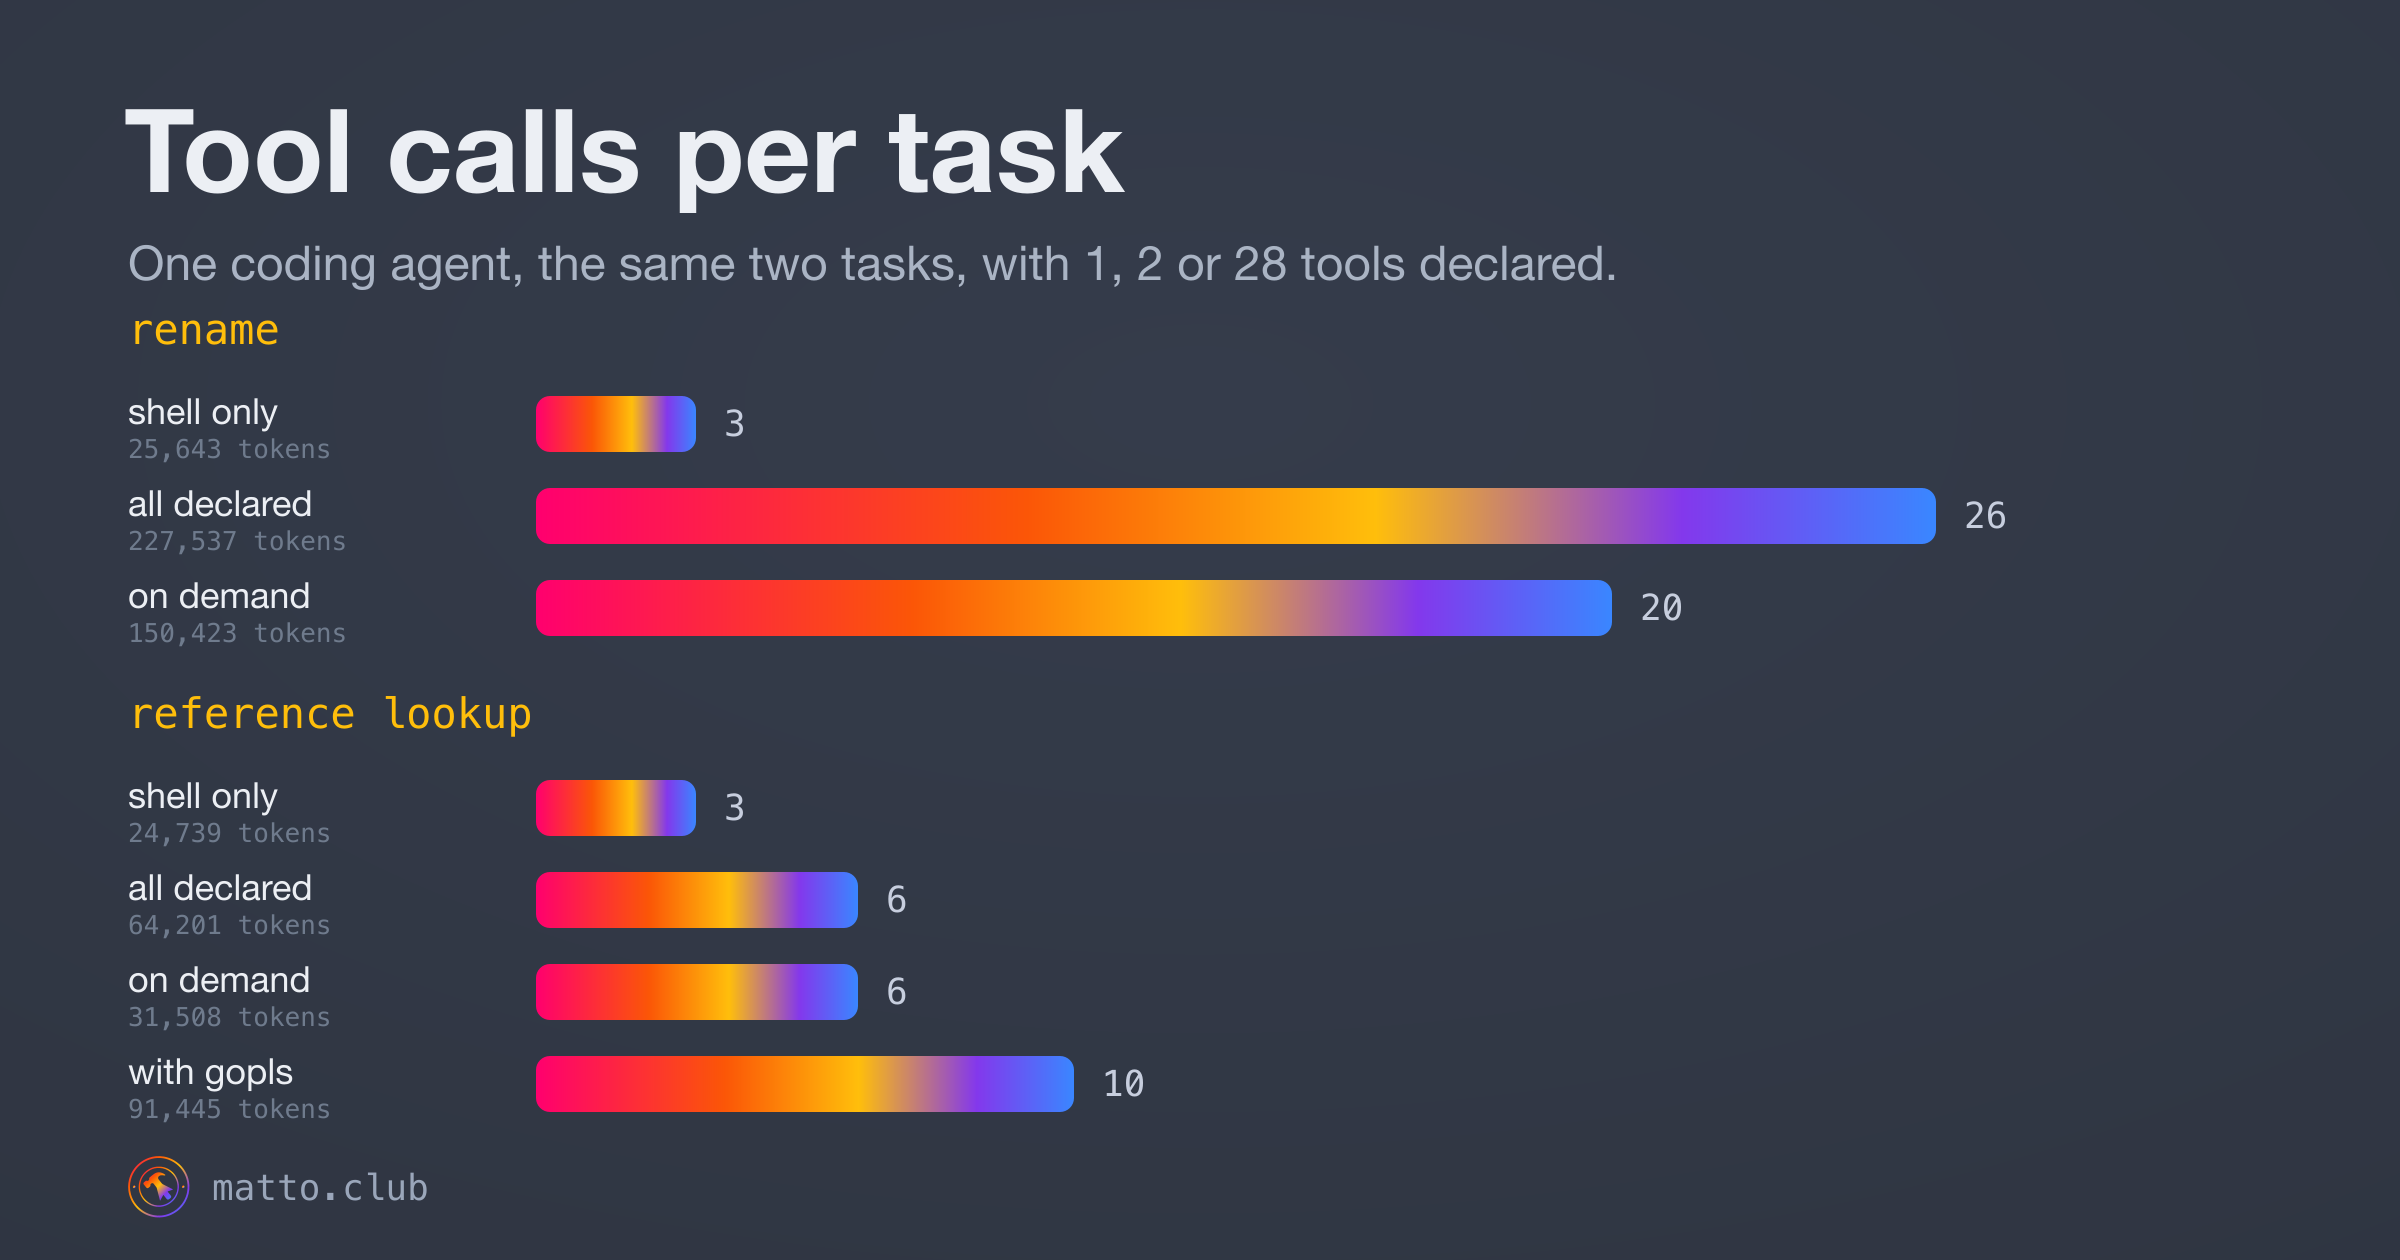
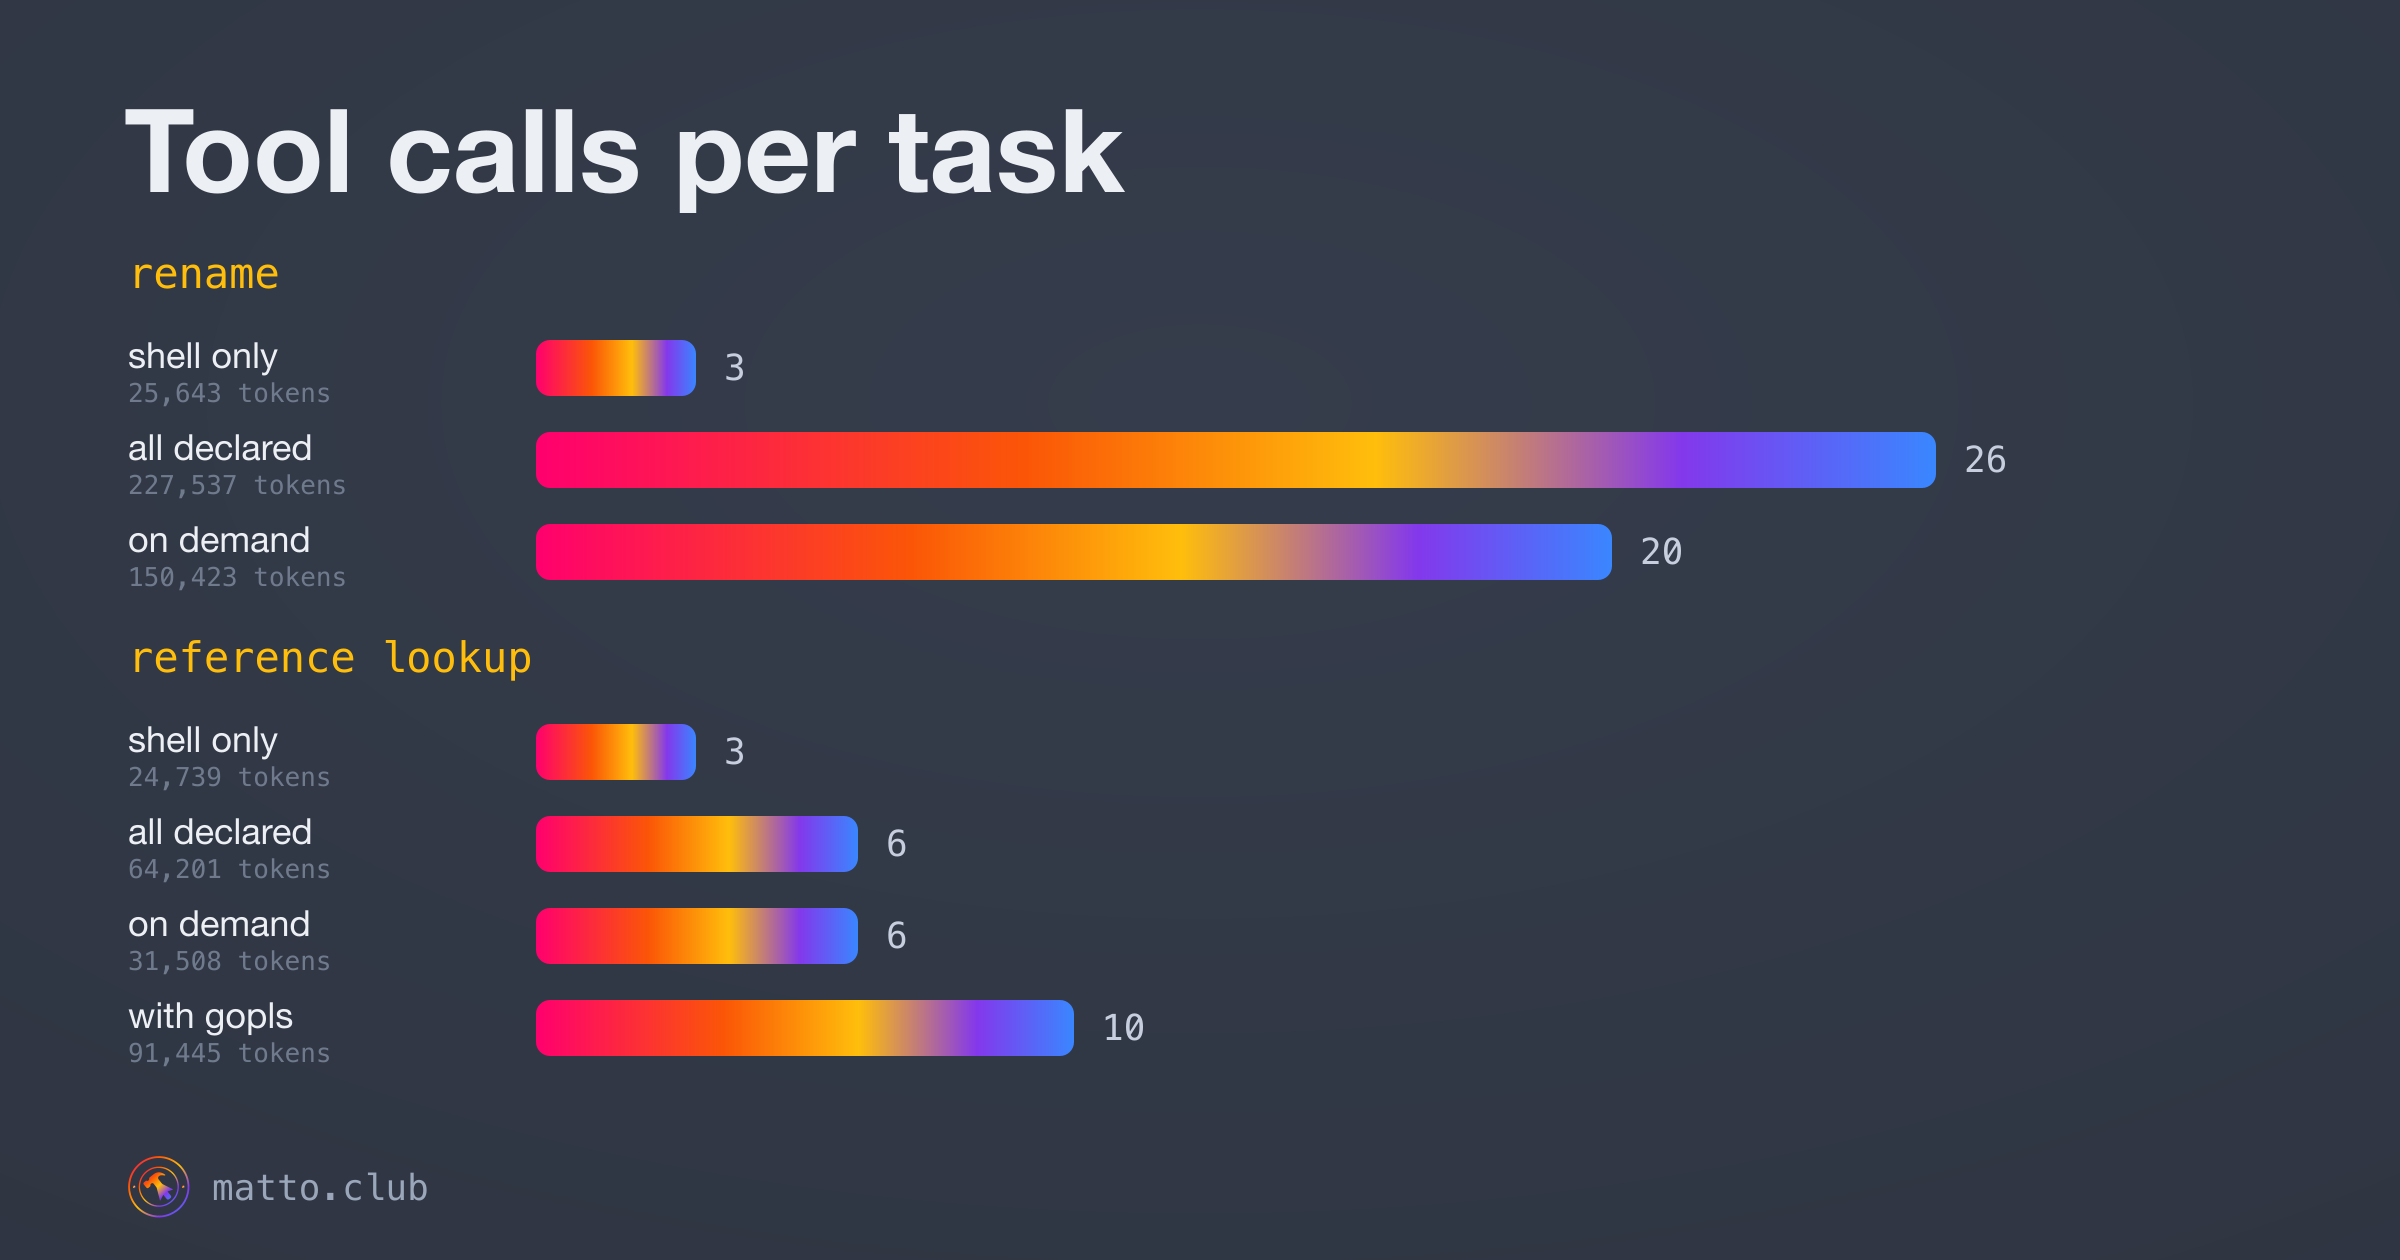
docs(website): drop the setup line from the tools deep dive charts
The title carries the metric; the setup lives in the article text.
Regenerated from summary.tsv via tools/og/build-tools-charts.py.

Changed region(s): [[0.0312, 0.1857, 0.8438, 0.8976]]

diff --git a/tools/og/build-tools-charts.py b/tools/og/build-tools-charts.py
@@ -9,7 +9,7 @@ website/src/assets/writing/:
       rsvg-convert -w 2400 -h 1260 .og-drafts/$f.svg -o website/src/assets/writing/$f.png
     done
 
-Two text lines only: the title names the metric, the subtitle states the setup.
+One text line only: the title names the metric.
 House style: 1200x630 viewBox, rendered 2x by rsvg-convert, same palette and
 footer as tools/og/build-comparative-v2.py.
 """
@@ -76,14 +76,13 @@ FOOTER = f"""  <g transform="translate(64 578) scale(0.0300)">
   <text x="106" y="600" font-family="{MONO}" font-size="18" fill="#9aa6ba">matto.club</text>"""
 
 
-def svg(title, subtitle, body):
+def svg(title, body):
     return f"""<svg width="1200" height="630" viewBox="0 0 1200 630" xmlns="http://www.w3.org/2000/svg">
 {DEFS}
 
   <rect width="1200" height="630" fill="url(#bgWash)"/>
 
   <text x="62" y="96" font-family="{SANS}" font-weight="700" font-size="58" fill="#eceff4">{title}</text>
-  <text x="64" y="140" font-family="{SANS}" font-size="24" fill="#aab4c4">{subtitle}</text>
 
 {body}
 
@@ -102,7 +101,7 @@ BAR_X, BAR_MAX, PITCH, BAR_H = 268, 700, 46, 28
 def bars(metric, sub_of):
     """Horizontal bars per task, one scale across both tasks."""
     peak = max(float(r[metric]) for r in rows)
-    out, y = [], 172
+    out, y = [], 144
     for name, labels in TASKS:
         out.append(f'  <text x="64" y="{y}" font-family="{MONO}" font-size="21" fill="#ffbe0b">{name}</text>')
         y += 26
@@ -120,17 +119,15 @@ def bars(metric, sub_of):
     return "\n".join(out)
 
 
-SETUP = "One coding agent, the same two tasks, with 1, 2 or 28 tools declared."
-
 CARDS = [
-    ("tools-tokens", "Input tokens per task", SETUP,
+    ("tools-tokens", "Input tokens per task",
      bars("input", lambda r: f'{r["calls"]} calls')),
-    ("tools-calls", "Tool calls per task", SETUP,
+    ("tools-calls", "Tool calls per task",
      bars("calls", lambda r: f'{thousands(r["input"])} tokens')),
-    ("tools-clock", "Wall clock per task", SETUP + " Each cell ran once.",
+    ("tools-clock", "Wall clock per task",
      bars("wall_s", lambda r: f'{r["calls"]} calls')),
 ]
 
-for name, title, subtitle, body in CARDS:
-    (OUT / f"{name}.svg").write_text(svg(title, subtitle, body))
+for name, title, body in CARDS:
+    (OUT / f"{name}.svg").write_text(svg(title, body))
     print("wrote", OUT / f"{name}.svg")
